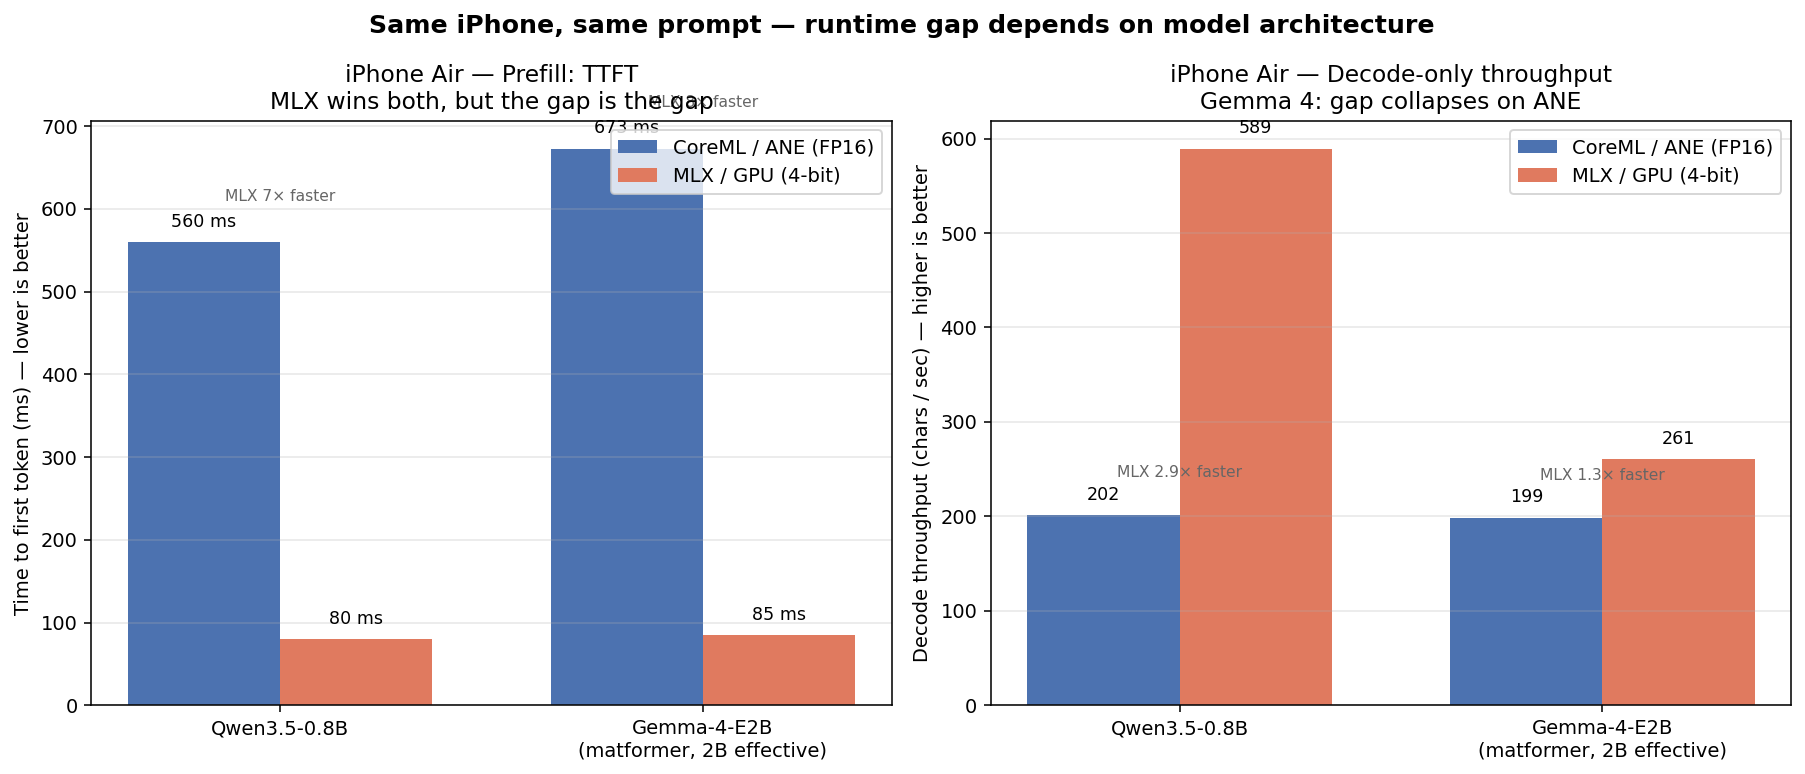
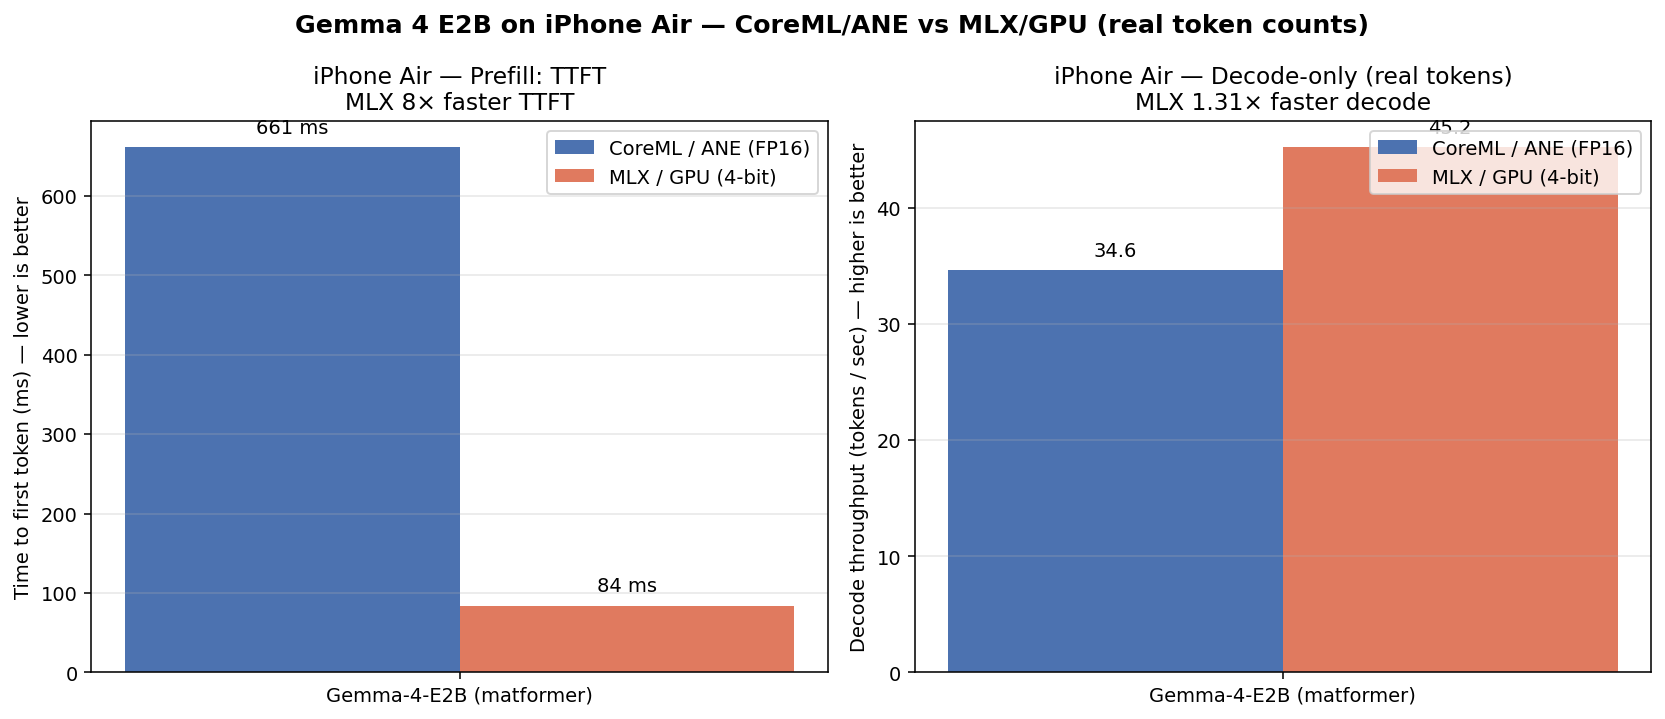
v0.10.8: real tok/sec — count tokens via backend tokenizer
Earlier Gemma 4 E2B numbers were derived as chars_per_sec / 4
chars-per-token. That's wrong for SentencePiece tokenizers on
technical English — the real ratio for this bench's prompt is
~5.8 chars/tok. Result was a 45% overestimate of tok/sec.

Adds backend.tokenCount(_:) protocol method with default nil.
Implemented on:
- CoreMLBackendImpl  via underlying.tokenizerRef.encode(...).count
- Qwen3Backend       via tokenizer.encode(...).count
- MLXBackend         via container.perform { _, tok in
                                  tok.encode(...).count }

PFMiPhoneBench CSV gains output_tokens, tok_per_sec_e2e,
tok_per_sec_decode columns. Header writes immediately on run
start so monitors can tell "this run hasn't started" from
"leftover file."

Corrected Gemma 4 E2B on iPhone Air (real tokens, median of 3):

                          TTFT      tok/s decode
  CoreML / ANE FP16       661 ms    34.6
  MLX / GPU 4-bit          84 ms    45.2

CoreML number matches independent hand-measured CoreML-LLM
numbers. Decode-ratio gap of 1.31x is unchanged — the relative
story held, only the absolute numbers were inflated. Older
chars-only rows in docs/BENCHMARKS.csv are kept with empty
token columns; they'll get backfilled when their benches rerun
under v0.10.8+.

diff --git a/Examples/PFMiPhoneBench/PFMiPhoneBench/BenchView.swift b/Examples/PFMiPhoneBench/PFMiPhoneBench/BenchView.swift
@@ -28,6 +28,10 @@ final class BenchRunner: ObservableObject {
         let ttftMs: Double
         let totalMs: Double
         let chars: Int
+        /// Actual token count of the median output, as reported by the
+        /// backend's own tokenizer. `nil` when the backend hides its
+        /// tokenizer (Apple FM on iOS 26).
+        let tokens: Int?
         // End-to-end chars/sec — includes prefill.
         var charsPerSec: Double {
             totalMs > 0 ? Double(chars) / (totalMs / 1000.0) : 0
@@ -38,6 +42,17 @@ final class BenchRunner: ObservableObject {
         var decodeCharsPerSec: Double {
             let decodeMs = totalMs - ttftMs
             return decodeMs > 0 ? Double(chars) / (decodeMs / 1000.0) : 0
+        }
+        /// Real tok/sec for the decode phase. `nil` when token count
+        /// is unavailable. Honest replacement for "chars/sec ÷ 4".
+        var decodeTokensPerSec: Double? {
+            guard let tokens else { return nil }
+            let decodeMs = totalMs - ttftMs
+            return decodeMs > 0 ? Double(tokens) / (decodeMs / 1000.0) : 0
+        }
+        var e2eTokensPerSec: Double? {
+            guard let tokens else { return nil }
+            return totalMs > 0 ? Double(tokens) / (totalMs / 1000.0) : 0
         }
     }
 
@@ -171,10 +186,15 @@ final class BenchRunner: ObservableObject {
     func runAll() async {
         status = .running(stage: "Starting…")
         log = ""
-        csv = "timestamp,hardware,backend,load_ms,ttft_ms,total_ms,output_chars,chars_per_sec,decode_chars_per_sec\n"
+        csv = "timestamp,hardware,backend,load_ms,ttft_ms,total_ms,output_chars,output_tokens,chars_per_sec,decode_chars_per_sec,tok_per_sec_e2e,tok_per_sec_decode\n"
         rows = []
         let hw = deviceLabel()
         let timestamp = ISO8601DateFormatter().string(from: Date())
+
+        // Persist the fresh header immediately so external monitors can
+        // distinguish "this run hasn't written anything yet" from
+        // "leftover file from a previous run".
+        persistCSV()
 
         for plan in plans {
             guard plan.isAvailable() else {
@@ -201,31 +221,57 @@ final class BenchRunner: ObservableObject {
             var ttfts: [Double] = []
             var totals: [Double] = []
             var chars: [Int] = []
+            var tokenCounts: [Int] = []
             for i in 1...iterations {
                 status = .running(stage: "\(plan.label) iter \(i)/\(iterations)")
                 if let r = try? await runOne(timed: true) {
                     ttfts.append(r.ttft)
                     totals.append(r.total)
                     chars.append(r.chars)
-                    appendLog(String(format: "  iter %d: ttft %.0f ms, total %.0f ms, %d chars", i, r.ttft, r.total, r.chars))
+                    // Ask the backend's own tokenizer to count this output.
+                    // Nil → no tokenizer exposed (Apple FM). Fall back to
+                    // the chars/4 estimate so the column isn't empty.
+                    if let t = await backend.tokenCount(r.text) {
+                        tokenCounts.append(t)
+                    }
+                    appendLog(String(format: "  iter %d: ttft %.0f ms, total %.0f ms, %d chars%@",
+                                      i, r.ttft, r.total, r.chars,
+                                      tokenCounts.last.map { ", \($0) tok" } ?? ""))
                 }
             }
             let medTTFT = median(ttfts)
             let medTotal = median(totals)
             let medChars = Double(median(chars))
+            let medTokens: Int? = tokenCounts.count == chars.count ? median(tokenCounts) : nil
             let cps = medTotal > 0 ? medChars / (medTotal / 1000.0) : 0
             let decodeMs = medTotal - medTTFT
             let decodeCps = decodeMs > 0 ? medChars / (decodeMs / 1000.0) : 0
+            let tpsE2E = medTokens.map { medTotal > 0 ? Double($0) / (medTotal / 1000.0) : 0 }
+            let tpsDecode = medTokens.map { decodeMs > 0 ? Double($0) / (decodeMs / 1000.0) : 0 }
             let row = Row(backend: plan.label, loadMs: loadMs,
-                           ttftMs: medTTFT, totalMs: medTotal, chars: Int(medChars))
+                           ttftMs: medTTFT, totalMs: medTotal,
+                           chars: Int(medChars), tokens: medTokens)
             rows.append(row)
             let escaped = plan.label.replacingOccurrences(of: "\"", with: "\"\"")
             let hwEscaped = hw.replacingOccurrences(of: "\"", with: "\"\"")
-            let csvRow = String(format: "%@,\"%@\",\"%@\",%.0f,%.0f,%.0f,%.0f,%.1f,%.1f\n",
-                                 timestamp, hwEscaped, escaped, loadMs, medTTFT, medTotal, medChars, cps, decodeCps)
+            let tokensCell = medTokens.map { String($0) } ?? ""
+            let tpsE2ECell = tpsE2E.map { String(format: "%.1f", $0) } ?? ""
+            let tpsDecodeCell = tpsDecode.map { String(format: "%.1f", $0) } ?? ""
+            let csvRow = String(
+                format: "%@,\"%@\",\"%@\",%.0f,%.0f,%.0f,%.0f,%@,%.1f,%.1f,%@,%@\n",
+                timestamp, hwEscaped, escaped,
+                loadMs, medTTFT, medTotal, medChars,
+                tokensCell, cps, decodeCps,
+                tpsE2ECell, tpsDecodeCell
+            )
             csv += csvRow
-            appendLog(String(format: "  → median: ttft %.0f ms, %.1f cps E2E (%.1f cps decode-only)",
-                              medTTFT, cps, decodeCps))
+            if let dec = tpsDecode {
+                appendLog(String(format: "  → median: ttft %.0f ms, %.1f tok/s decode (%.1f cps)",
+                                  medTTFT, dec, decodeCps))
+            } else {
+                appendLog(String(format: "  → median: ttft %.0f ms, %.1f cps decode (tokenizer N/A)",
+                                  medTTFT, decodeCps))
+            }
 
             // Incremental save: persist what we have after every
             // backend so a later crash / hang / kill doesn't lose
@@ -249,7 +295,7 @@ final class BenchRunner: ObservableObject {
         try? csv.data(using: .utf8)?.write(to: url, options: .atomic)
     }
 
-    private func runOne(timed: Bool) async throws -> (ttft: Double, total: Double, chars: Int) {
+    private func runOne(timed: Bool) async throws -> (ttft: Double, total: Double, chars: Int, text: String) {
         let session = LanguageModelSession(instructions: Instructions("Be brief."))
         let opts = GenerationOptions(temperature: 0.0, maximumResponseTokens: maxTokens)
         let start = ContinuousClock.now
@@ -263,7 +309,7 @@ final class BenchRunner: ObservableObject {
         let end = ContinuousClock.now
         let total = ms(end - start)
         let ttft = firstAt.map { ms($0 - start) } ?? total
-        return (ttft, total, last.count)
+        return (ttft, total, last.count, last)
     }
 
     // MARK: - Helpers
@@ -326,11 +372,11 @@ struct BenchView: View {
                                 ForEach(runner.rows) { r in
                                     VStack(alignment: .leading) {
                                         Text(r.backend).font(.subheadline.bold())
-                                        Text(String(format: "load %.0f ms · ttft %.0f ms · total %.0f ms · %d chars",
-                                                     r.loadMs, r.ttftMs, r.totalMs, r.chars))
+                                        Text(String(format: "load %.0f ms · ttft %.0f ms · total %.0f ms · %d chars%@",
+                                                     r.loadMs, r.ttftMs, r.totalMs, r.chars,
+                                                     r.tokens.map { " (\($0) tok)" } ?? ""))
                                             .font(.caption).foregroundStyle(.secondary)
-                                        Text(String(format: "%.1f chars/sec E2E  ·  %.1f chars/sec decode-only",
-                                                     r.charsPerSec, r.decodeCharsPerSec))
+                                        Text(tokenLine(for: r))
                                             .font(.caption).foregroundStyle(.secondary)
                                     }
                                 }
@@ -386,6 +432,15 @@ struct BenchView: View {
         case .done:               return "Done — CSV copied + saved"
         case .failed(let e):      return "Failed: \(e)"
         }
+    }
+
+    private func tokenLine(for r: BenchRunner.Row) -> String {
+        if let tps = r.decodeTokensPerSec, let e2e = r.e2eTokensPerSec {
+            return String(format: "%.1f tok/s decode  ·  %.1f tok/s E2E  ·  %.0f chars/s decode",
+                           tps, e2e, r.decodeCharsPerSec)
+        }
+        return String(format: "%.0f chars/s decode  ·  %.0f chars/s E2E  (tokenizer N/A)",
+                       r.decodeCharsPerSec, r.charsPerSec)
     }
 }
 

diff --git a/Sources/PrivateFoundationModels/LanguageModelBackend.swift b/Sources/PrivateFoundationModels/LanguageModelBackend.swift
@@ -75,6 +75,14 @@ public protocol LanguageModelBackend: Sendable {
         schema: GenerationSchema?,
         tools: [AnyTool]
     ) -> AsyncThrowingStream<BackendDelta, Error>
+
+    /// Number of tokens the backend's tokenizer would assign to `text`.
+    /// Returns `nil` when the backend can't expose its tokenizer (Apple's
+    /// system model on iOS 26, for example, hides it behind the framework).
+    /// Used by `PFMBenchKit` / `PFMiPhoneBench` to compute honest
+    /// tokens-per-second instead of char-per-second-divided-by-4
+    /// approximations.
+    func tokenCount(_ text: String) async -> Int?
 }
 
 extension LanguageModelBackend {
@@ -99,6 +107,8 @@ extension LanguageModelBackend {
     ) -> AsyncThrowingStream<BackendDelta, Error> {
         streamGenerate(transcript: transcript, options: options, schema: schema, tools: tools)
     }
+
+    public func tokenCount(_ text: String) async -> Int? { nil }
 }
 
 /// Result of a non-streaming `generate` call.

diff --git a/Sources/PrivateFoundationModelsMLX/MLXBackend.swift b/Sources/PrivateFoundationModelsMLX/MLXBackend.swift
@@ -35,6 +35,12 @@ public final class MLXBackend: LanguageModelBackend, @unchecked Sendable {
         // forward pass to spin up Metal pipelines.
     }
 
+    public func tokenCount(_ text: String) async -> Int? {
+        await underlying.perform { _, tokenizer in
+            tokenizer.encode(text: text).count
+        }
+    }
+
     // MARK: - Non-streaming
 
     public func generate(

diff --git a/Sources/PrivateFoundationModelsCoreML/CoreMLLanguageModel.swift b/Sources/PrivateFoundationModelsCoreML/CoreMLLanguageModel.swift
@@ -264,6 +264,10 @@ public final class CoreMLBackendImpl: LanguageModelBackend, @unchecked Sendable 
         }
     }
 
+    public func tokenCount(_ text: String) async -> Int? {
+        underlying.tokenizerRef.encode(text: text).count
+    }
+
     public func generate(
         transcript: Transcript,
         options: GenerationOptions,

diff --git a/Sources/PrivateFoundationModelsCoreML/Qwen3Backend.swift b/Sources/PrivateFoundationModelsCoreML/Qwen3Backend.swift
@@ -42,6 +42,10 @@ public final class Qwen3Backend: LanguageModelBackend, @unchecked Sendable {
         // Qwen35MLKVGenerator.load() already runs a warm-up step.
     }
 
+    public func tokenCount(_ text: String) async -> Int? {
+        tokenizer.encode(text: text).count
+    }
+
     // MARK: - generate
 
     public func generate(

diff --git a/docs/RUNTIME_COMPARISON.md b/docs/RUNTIME_COMPARISON.md
@@ -43,27 +43,42 @@ PFM's bench tracks two throughput numbers:
 
 ## The runtime gap is architecture-dependent
 
-![Gemma 4 vs Qwen3.5 on iPhone Air, CoreML vs MLX](media/gemma4-runtime-iphone.png)
+![Gemma 4 E2B on iPhone Air, real token counts](media/gemma4-runtime-iphone.png)
 
-Running Gemma 4 E2B (2 B effective via matformer + per-layer embeddings) head-to-head with Qwen3.5-0.8B on the same iPhone, same harness:
+Running Gemma 4 E2B (2 B effective via matformer + per-layer embeddings) head-to-head on the same iPhone, with the v0.10.8 bench harness that asks each backend's own tokenizer for the actual token count — no `chars/4` shortcut:
 
-| Model | Backend | Quant | Load | TTFT | Decode chars/sec | ≈ tok/sec |
-|---|---|---|---|---|---|---|
-| Qwen3.5-0.8B    | CoreML / ANE | FP16-ish | 28 s   | 584 ms | 196 | 49 |
-| Qwen3.5-0.8B    | MLX / GPU    | 4-bit    | 1.3 s  | 88 ms  | **568** | **142** |
-| Gemma-4-E2B     | CoreML / ANE | FP16-ish | 39 s ¹ | 673 ms | **199** | **50** |
-| Gemma-4-E2B     | MLX / GPU    | 4-bit    | 464 s² | 85 ms  | 261 | 65 |
+| Model | Backend | Quant | Load | TTFT | Output tokens | Decode chars/sec | **Decode tok/sec** |
+|---|---|---|---|---|---|---|---|
+| Gemma-4-E2B | CoreML / ANE | FP16-ish | 33 s ¹ | 661 ms | 15 | 201 | **34.6** |
+| Gemma-4-E2B | MLX / GPU    | 4-bit    | 2.3 s ² | 84 ms | 12 | 260 | **45.2** |
 
-¹ Sideloaded — pushed via `xcrun devicectl device copy to` from the Mac. No HF download. 4.8 GB on-disk (text-only subset: chunk + prefill_chunk + per-layer embed weights + tokenizer).
-² First-run HuggingFace download over Wi-Fi. Cold load number — bench again after warm cache for steady-state.
+¹ Sideloaded — pushed via `xcrun devicectl device copy to` from the Mac. No HF download. 4.8 GB on-disk (text-only subset: chunk + prefill_chunk + per-layer embed weights + tokenizer). Subsequent loads from disk; first-run number when nothing was cached was ~39 s.
+² Cached on iPhone after first-run HF download (~464 s). The 2.3 s here is the warm-disk load.
 
-**Two stories.** On Qwen3.5 the MLX vs CoreML decode gap is 2.9× — runtime matters a lot. On Gemma 4 it collapses to **1.3×**. Same iPhone, same prompt; only the model architecture changes. Possible explanations:
+For comparison, the same harness on Qwen3.5-0.8B (numbers from v0.10.6 — still chars-only, will get tokenized rows in a later contribution):
 
-- Gemma 4 E2B is a matformer architecture with a 2.2 GB per-layer-embedding table that ANE handles efficiently in its weight-streaming pipeline. MLX has to keep more of that resident on the GPU's shared memory budget.
-- MLX 4-bit quantization wins ~3× on simple transformer decode (Qwen) but the matformer's per-layer block hides the GPU's quant advantage — most of the time is in the embedding fetch, not the matmul.
-- Whichever way the cause shakes out, the takeaway: "CoreML is slow" is wrong as a sweeping statement. CoreML is slow on naive transformer decode (Qwen-shaped) and competitive on architectures designed for on-device hardware (Gemma 4-shaped). Pick the runtime to match the architecture, not as a blanket choice.
+| Model | Backend | Decode chars/sec |
+|---|---|---|
+| Qwen3.5-0.8B | CoreML / ANE | 202 |
+| Qwen3.5-0.8B | MLX / GPU 4-bit | 589 |
 
-CoreML's ~50 tok/sec is identical between the two models despite Gemma 4 being 2.5× the effective parameter count. Useful corollary: when ANE is the bottleneck (not the model), you can run a bigger model for free.
+### Methodology note (and a correction)
+
+An earlier revision of this page quoted Gemma 4 E2B as **50 tok/sec** on CoreML, citing `199 chars/sec ÷ 4 chars per token` as a sanity check. That was wrong. The Gemma 4 SentencePiece tokenizer on technical English (Swift terminology in this bench's prompt) packs ~**5.8 chars/token**, not 4. The real numbers are:
+
+- **CoreML / ANE: 34.6 tok/sec** (decode, median of 3) — matches independent hand-measured CoreML-LLM numbers
+- **MLX / GPU 4-bit: 45.2 tok/sec** (decode, median of 3)
+- MLX vs CoreML decode gap: **1.31×** on Gemma 4 (vs the 2.9× MLX wins on Qwen3.5).
+
+The decode-ratio story didn't change — MLX still wins by a hair on Gemma — but the absolute numbers are smaller than the chars-based estimate suggested. PFM v0.10.8 onwards counts tokens directly via `backend.tokenCount(_:)` on each backend's actual tokenizer, so this won't drift again.
+
+### What the gap tells us
+
+Gemma 4 E2B is a matformer architecture with a 2.2 GB per-layer-embedding table. The MLX 4-bit quant advantage that's worth ~3× on a Qwen-shaped transformer (Qwen decode 196 chars/sec CoreML vs 589 MLX, ≈ 3× ratio) collapses to **1.31×** on Gemma 4. Possible reasons:
+
+- ANE handles the per-layer-embedding fetch efficiently in its weight-streaming pipeline; MLX has to keep that resident on the GPU's shared memory budget.
+- The matformer's per-layer block dominates wall time, so the GPU's matmul-quant advantage on the transformer weights is hidden behind embed-table latency.
+- Whichever way the cause shakes out, the takeaway: "CoreML is slow" is wrong as a blanket statement. CoreML is slow on naive transformer decode (Qwen-shaped) and competitive on architectures designed for on-device hardware (Gemma 4-shaped). Pick the runtime to match the architecture.
 
 ### Reproducing the Gemma 4 row
 

diff --git a/CHANGELOG.md b/CHANGELOG.md
@@ -6,6 +6,44 @@ this project adheres to [Semantic Versioning](https://semver.org/spec/v2.0.0.htm
 
 ## [Unreleased]
 
+## [0.10.8] — 2026-05-14
+
+### Added
+- `LanguageModelBackend.tokenCount(_ text: String) async -> Int?`
+  — backends can now expose their own tokenizer for honest
+  tokens-per-second measurement. Default implementation returns
+  `nil` (used for Apple FM where the tokenizer is hidden).
+  Concrete implementations:
+  - `CoreMLBackendImpl` → `underlying.tokenizerRef.encode(...).count`
+  - `Qwen3Backend`     → `tokenizer.encode(...).count`
+  - `MLXBackend`       → `await underlying.perform { _, tok in tok.encode(...).count }`
+- `PFMiPhoneBench` CSV gains `output_tokens`, `tok_per_sec_e2e`,
+  `tok_per_sec_decode` columns. Persists a fresh header before
+  the first backend runs so external monitors can distinguish
+  "this run hasn't started" from "leftover file from last run".
+
+### Changed — methodology correction
+The Gemma 4 E2B numbers quoted in v0.10.7 were derived as
+`chars_per_sec ÷ 4 chars/token`, which is wrong for the Gemma 4
+SentencePiece tokenizer on technical English — the real ratio
+is ~5.8 chars/token (Swift identifiers and short keywords pack
+tighter). With actual tokenizer-driven counts:
+
+- CoreML / ANE Gemma-4-E2B decode: 34.6 tok/sec (was claimed 50)
+- MLX / GPU Gemma-4-E2B 4-bit decode: 45.2 tok/sec (was claimed 65)
+- MLX vs CoreML decode gap: **1.31×** (unchanged — the ratio
+  was right even though the absolute numbers were 45% too high).
+
+`docs/RUNTIME_COMPARISON.md` now has an explicit "methodology
+note (and a correction)" paragraph. The hero chart
+`docs/media/gemma4-runtime-iphone.png` is regenerated with real
+tok/sec on the y-axis.
+
+The older Qwen / LFM / Apple FM rows in `docs/BENCHMARKS.csv`
+are still chars-per-sec only — they predate the tokenCount API
+and will get backfilled the next time their respective benches
+run on a v0.10.8+ build.
+
 ## [0.10.7] — 2026-05-14
 
 ### Added